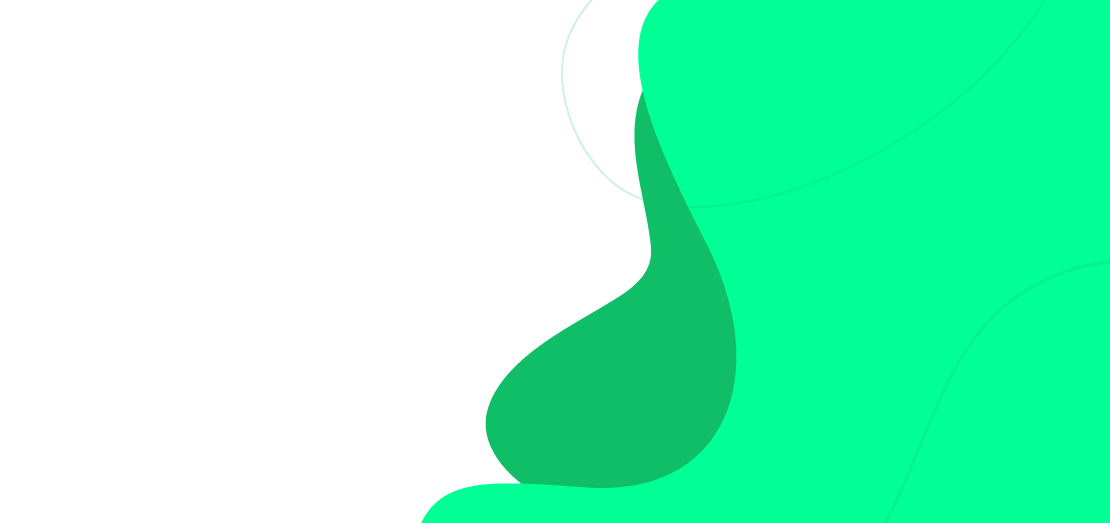
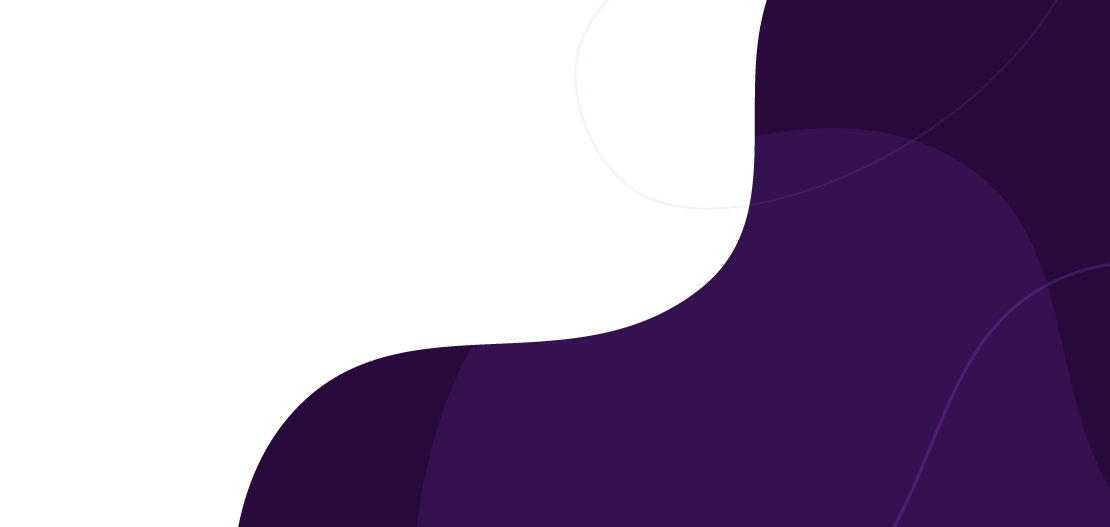
Se genera la maqueta base con la imagen correspondiente al scorm

diff --git a/src/components/Actividad1/Actividad.jsx b/src/components/Actividad1/Actividad.jsx
@@ -13,9 +13,11 @@ import Modal from '../Generales/Modal'
 import styled from 'styled-components'
 import styles, { DraggablesContainer, AreasContainer, ProgressbarContainer, UiButtonsContainer } from './Actividad_styles'
 import Ilex from '../../App/variables'
+import {IRow} from '../Grid'
 // import interaction from './Actividad_interactions'
 import dataItems from './Actividad_data'
 import { useState } from 'react'
+import ButtonInfo from '../ButtonInfo'
 
 const Actividad_base = ({staticContext, ...props}) => {
     const [itemsCompletados, modItemsCompletados] = useState([])
@@ -40,13 +42,14 @@ const Actividad_base = ({staticContext, ...props}) => {
     const area_1 = useRef()
     const area_2 = useRef()
     const area_3 = useRef()
-
+    const area_4 = useRef()
+    const area_5 = useRef()
  
     return (
         <Container bgImage='./src/bg_actividad1.png' {...props} id="area" h={50}>
             
             <UiButtonsContainer>
-                <ButtonUi icon='ilx-ayuda' tooltip='Drag the words to the appropriate box, plural, female or male.' />
+                <ButtonUi icon='ilx-ayuda' tooltip='First listen to the audios, then organize the phrases in the boxes that correspond to each audio' />
                 <ButtonUi icon='ilx-volver' tooltip='Start Again' onClick={ () => {window.location.href = '/actividad1'} } />
             </UiButtonsContainer>
 
@@ -55,11 +58,18 @@ const Actividad_base = ({staticContext, ...props}) => {
             </ProgressbarContainer>
             
 
-
             <MainTitle color={Ilex.violeta2}>
-            LISTEN AND PRACTICE FAMILY MEMBERS. THEN, CLASSIFY EACH FAMILY MEMBER BY ITS GENDER.
+            LISTEN TO THE CONVERSATIONS. READ THE SENTENCES AND PUT THEM IN THEIR  CORRESPONDING BOXES ACCORDING TO THE AUDIOS
             </MainTitle>
             
+            <IRow className="listado-audio" justify="center" w={85} gutters={1} align="center">
+                <ButtonInfo imgUrl="src/svg/bocina.svg">AUDIO 1</ButtonInfo>
+                <ButtonInfo imgUrl="src/svg/bocina.svg">AUDIO 2</ButtonInfo>
+                <ButtonInfo imgUrl="src/svg/bocina.svg">AUDIO 3</ButtonInfo>
+                <ButtonInfo imgUrl="src/svg/bocina.svg">AUDIO 4</ButtonInfo>
+                <ButtonInfo imgUrl="src/svg/bocina.svg">AUDIO 5</ButtonInfo>
+            </IRow>
+
             <DraggablesContainer>
                 
                 { dataItems.map((dato)=>{
@@ -70,9 +80,12 @@ const Actividad_base = ({staticContext, ...props}) => {
 
             </DraggablesContainer>
             <AreasContainer >
-                <Area title='Plural' data-target="area_1" id="area_1" ref={area_1} />
-                <Area title='Female' data-target="area_2" id="area_2" ref={area_2} />
-                <Area title='Male' data-target="area_3" id="area_3" ref={area_3} />
+                <Area title='audio 1' data-target="area_1" id="area_1" ref={area_1} />
+                <Area title='audio 2' data-target="area_2" id="area_2" ref={area_2} />
+                <Area title='audio 3' data-target="area_3" id="area_3" ref={area_3} />
+                <Area title='audio 4' data-target="area_4" id="area_4" ref={area_4} />
+                <Area title='audio 5' data-target="area_5" id="area_5" ref={area_5} />
+
             </AreasContainer>
 
             <Modal visible={comprobarPrueba()} ok w={25} nxtUrl='/actividad2' />

diff --git a/src/components/Home/Home.jsx b/src/components/Home/Home.jsx
@@ -3,6 +3,7 @@ import styled from 'styled-components'
 import Container from '../Container'
 import {ButtonLink} from '../ButtonX'
 import estilos_home from './Home_styles'
+import { ICol } from '../Grid'
 
 
 
@@ -13,17 +14,19 @@ const Home_base = function ({ staticContext, ...props}) { // se le pasan las pro
 
                     <div className='bloque-izquierdo'>
                         <div className='bloque-izquierdo-container'>
-                            <h1> A language teacher's family </h1>
+                            <h1> ¡ I love the food at the Galpon! </h1>
                             <p>
-                            This activity count with 3 parts. Read, organize and complete the exercises.
-                            <span className='negrilla'> <br/> <br/> ¡Time to practice your reading skill! </span></p>
+                            Listen to the conversations. Read the sentences and put them in their corresponding boxes according to the audios.</p>
                             <ButtonLink to='/actividad1'>Start</ButtonLink>
                         </div>
                     </div>
                     <div className='bloque-derecho'>
-                        <figure>
-                            <img src='./src/cover.png' alt='Logo' />    
-                        </figure>
+                        <ICol mt={2}>
+                            <figure>
+                                <img src='./src/cover.png' alt='Logo' />    
+                            </figure>
+                        </ICol>
+
 
                     </div>
 

diff --git a/src/App.js b/src/App.js
@@ -51,14 +51,10 @@ const App = () => {
   return(
     <>
       <Gstyle/>
-      <Fondo degradado={Ilex.degradado('-60deg',Ilex.color_verde_reading,Ilex.color_verde_reading,Ilex.azul)}>
+      <Fondo degradado={Ilex.degradado('-30deg',Ilex.rosa,Ilex.azul,Ilex.violeta)}>
         <BrowserRouter>
           <Route path='/' exact component={Home} />
-          <Route path='/actividad1' component={Actividad1} />
-          <Route path='/actividad2' component={Actividad2} />
-          <Route path='/actividad2a' component={Actividad2A} />
-          <Route path='/actividad3' component={Actividad3} />
-          
+          <Route path='/actividad1' component={Actividad1} />          
         </BrowserRouter>
 
       </Fondo>

diff --git a/src/components/Draggable/Draggable_styles.js b/src/components/Draggable/Draggable_styles.js
@@ -2,7 +2,7 @@ import { css } from 'styled-components'
 import Ilex from '../../App/variables'
 const styles = css`
     background-color: #fff;
-    border: 2px solid ${Ilex.dragItem};
+    border: 1px dashed ${Ilex.dragItem};
     color: ${Ilex.violeta2};
     display: inline-block;
     padding: 0.6em 0.6em;

diff --git a/src/components/Draggable/Draggable.jsx b/src/components/Draggable/Draggable.jsx
@@ -61,7 +61,6 @@ const Draggable_base = React.forwardRef(({ areaDrag, audio, name, target, elemen
     return (
         <div {...props} ref={itemDraggable}>
             <div className='draggable' >
-            <BocinaButton audio={audio} />
             <span>{ name }</span>
             </div>
 
